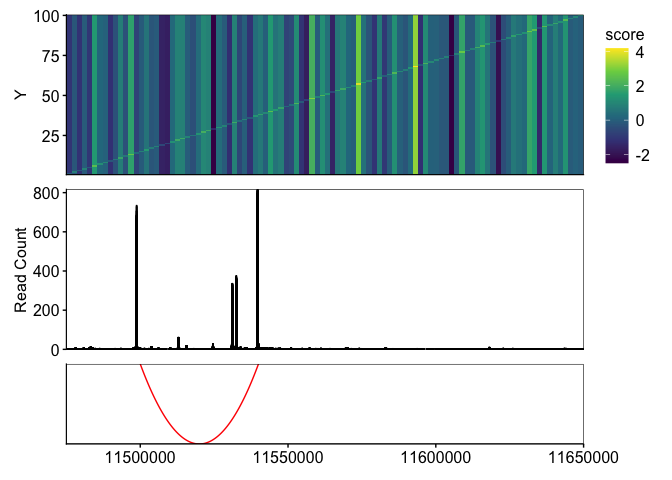
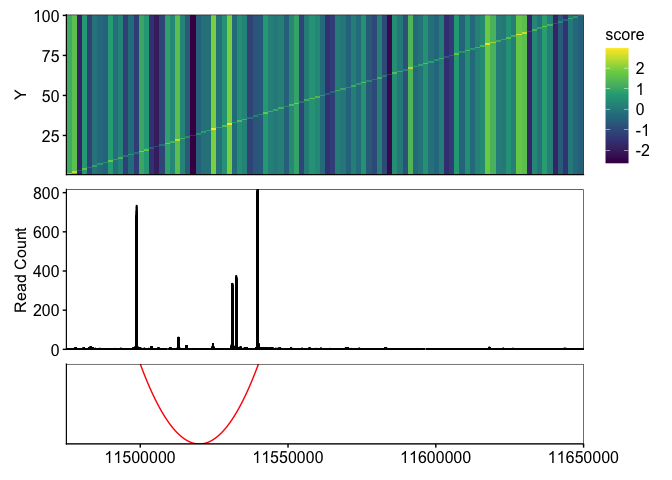
Updated README

Changed region(s): [[0.0938, 0.0312, 0.875, 0.375], [0.9375, 0.0938, 0.9688, 0.2812], [0.9375, 0.3125, 0.9688, 0.3438]]

diff --git a/README.md b/README.md
@@ -108,3 +108,11 @@ heatmap +
 ```
 
 <img src="man/figures/README-unnamed-chunk-3-1.png" width="100%"/>
+
+## Full list of available tracks:
+
+1.  BigWig track (e.g., ChIP-seq or ATAC-seq signals): `bigwig_track`, `multi_bigwig_track`
+2.  logo track (e.g., deeplearning model contribution scores): `bigwig_logo_track`
+3.  Arcs track (e.g. ABC connections): `arcs_track`
+4.  BED track (e.g., binding sites): `bed_track`
+5.  genes track: `genes_track`
